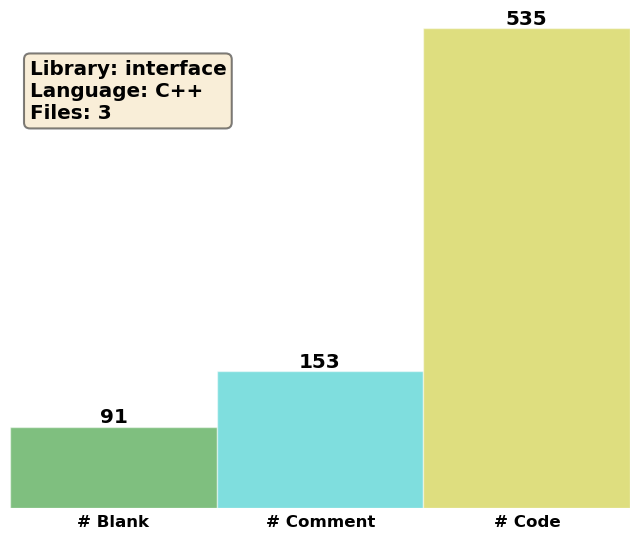
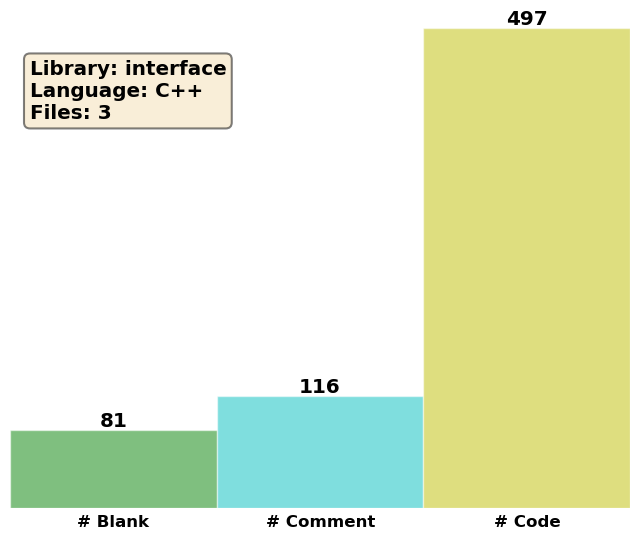
Accepting host_input when host is Fortran seems finally working

Changed region(s): [[0.3125, 0.6531, 0.6875, 0.7421], [0.0, 0.7421, 0.3438, 0.8015], [0.7812, 0.0, 0.875, 0.0594]]

diff --git a/src/interface/PCMInput.hpp b/src/interface/PCMInput.hpp
@@ -26,25 +26,13 @@
 #ifndef PCMINPUT_HPP
 #define PCMINPUT_HPP
 
-#include <algorithm>
 #include <iostream>
 #include <string>
 
 #include "Config.hpp"
 
-#include <boost/algorithm/string.hpp>
-
-inline bool invalidChar(char c);
-
 struct PCMInput;
 inline void print(const PCMInput &);
-inline void init(PCMInput &);
-inline void trim(PCMInput &);
-
-bool invalidChar(char c)
-{
-    return !std::isprint( static_cast<unsigned char>( c ) );
-}
 
 /*! @struct PCMInput
  *  @brief Data structure for host-API input communication.
@@ -59,28 +47,28 @@ struct PCMInput
 	double coarsity;
 	/// Average tesserae area.
 	double area;
+	/// The built-in radii set to be used.
+	char radii_set[8];
 	/// Minimal distance between sampling points.
 	double min_distance;
 	/// Derivative order for the switching function.
 	int der_order;
 	/// Whether to scale or not the atomic radii.
 	bool scaling;
-	/// The built-in radii set to be used.
-	char radii_set[8];
 	/// Name of the .npz file for GePol cavity restart.
 	char restart_name[20];
 	/// Minimal radius for the added spheres.
 	double min_radius;
 	/// Type of solver requested.
 	char solver_type[7];
-	/// Name of the solvent.
-	char solvent[16];
-	/// Type of the integral equation to be used.
-	char equation_type[11];
 	/// Correction in the CPCM apparent surface charge scaling factor.
 	double correction;
+	/// Name of the solvent.
+	char solvent[16];
 	/// Radius of the spherical probe mimicking the solvent.
 	double probe_radius;
+	/// Type of the integral equation to be used.
+	char equation_type[11];
 	/// Type of Green's function requested inside the cavity.
 	char inside_type[7];
 	/// Value of the static permittivity outside the cavity.
@@ -109,79 +97,6 @@ void print(const PCMInput & inp)
     std::cout << "inside type " << std::string(inp.inside_type) << std::endl;
     std::cout << "outside type " << std::string(inp.outside_type) << std::endl;
     std::cout << "epsilon outside " << inp.outside_epsilon << std::endl;
-}
-void init(PCMInput & inp)
-{
-    inp.patch_level = 0;
-    std::fill((inp.cavity_type), (inp.cavity_type) + 8, 0);
-    inp.coarsity = 0.0;
-    inp.area = 0.0;
-    inp.min_distance = 0.0;
-    inp.der_order = 0;
-    inp.scaling = false;
-    std::fill((inp.radii_set), (inp.radii_set) + 8, 0);
-    std::fill((inp.restart_name), (inp.restart_name) + 20, 0);
-    inp.min_radius = 0.0;
-    std::fill((inp.solver_type), (inp.solver_type) + 7, 0);
-    inp.correction = 0.0;
-    std::fill((inp.solvent), (inp.solvent) + 16, 0);
-    inp.probe_radius = 0.0;
-    std::fill((inp.equation_type), (inp.equation_type) + 11, 0);
-    std::fill((inp.inside_type), (inp.inside_type) + 7, 0);
-    inp.outside_epsilon = 0.0;
-    std::fill((inp.outside_type), (inp.outside_type) + 22, 0);
-}
-void trim(PCMInput & inp)
-{
-    std::string s1(inp.cavity_type);
-    s1.erase(std::remove_if(s1.begin(), s1.end(), invalidChar), s1.end());
-    boost::algorithm::trim(s1);
-    std::fill((inp.cavity_type), (inp.cavity_type) + 8, 0);
-    strncpy(inp.cavity_type, s1.c_str(), s1.length());
-
-    /*
-    std::string s2(inp.restart_name);
-    s2.erase(std::remove_if(s2.begin(), s2.end(), invalidChar), s2.end());
-    boost::algorithm::trim(s2);
-    std::fill((inp.restart_name), (inp.restart_name) + 20, 0);
-    strncpy(inp.cavity_type, s2.c_str(), s2.length());
-
-    std::string s3(inp.radii_set);
-    s3.erase(std::remove_if(s3.begin(), s3.end(), invalidChar), s3.end());
-    boost::algorithm::trim(s3);
-    std::fill((inp.radii_set), (inp.radii_set) + 8, 0);
-    strncpy(inp.cavity_type, s3.c_str(), s3.length());
-
-    std::string s4(inp.solver_type);
-    s4.erase(std::remove_if(s4.begin(), s4.end(), invalidChar), s4.end());
-    boost::algorithm::trim(s4);
-    std::fill((inp.solver_type), (inp.solver_type) + 7, 0);
-    strncpy(inp.solver_type, s4.c_str(), s4.length());
-
-    std::string s5(inp.solvent);
-    s5.erase(std::remove_if(s5.begin(), s5.end(), invalidChar), s5.end());
-    boost::algorithm::trim(s5);
-    std::fill((inp.solvent), (inp.solvent) + 16, 0);
-    strncpy(inp.solvent, s5.c_str(), s5.length());
-
-    std::string s6(inp.equation_type);
-    s6.erase(std::remove_if(s6.begin(), s6.end(), invalidChar), s6.end());
-    boost::algorithm::trim(s6);
-    std::fill((inp.equation_type), (inp.equation_type) + 11, 0);
-    strncpy(inp.equation_type, s6.c_str(), s6.length());
-
-    std::string s7(inp.inside_type);
-    s7.erase(std::remove_if(s7.begin(), s7.end(), invalidChar), s7.end());
-    boost::algorithm::trim(s7);
-    std::fill((inp.inside_type), (inp.inside_type) + 7, 0);
-    strncpy(inp.inside_type, s7.c_str(), s7.length());
-
-    std::string s8(inp.outside_type);
-    s8.erase(std::remove_if(s8.begin(), s8.end(), invalidChar), s8.end());
-    boost::algorithm::trim(s8);
-    std::fill((inp.outside_type), (inp.outside_type) + 22, 0);
-    strncpy(inp.outside_type, s8.c_str(), s8.length());
-    */
 }
 
 #endif // PCMINPUT_HPP

diff --git a/src/utils/Input.cpp b/src/utils/Input.cpp
@@ -46,6 +46,7 @@
 #include "Sphere.hpp"
 
 using boost::algorithm::to_upper_copy;
+using boost::algorithm::trim;
 
 Input::Input(const std::string & filename)
 {
@@ -172,38 +173,50 @@ void Input::reader(const std::string & filename)
     providedBy_ = std::string("API-side");
 }
 
+std::string trim(const char * src)
+{
+    std::string tmp(src);
+    trim(tmp);
+    return tmp;
+}
+
+std::string trim_and_upper(const char * src)
+{
+    return to_upper_copy(trim(src));
+}
+
 void Input::reader(const PCMInput & host_input)
 {
     CODATAyear_ = 2010;
 
-    type_ = to_upper_copy(std::string(host_input.cavity_type));
+    type_ = trim_and_upper(host_input.cavity_type);
     area_ = host_input.area * angstrom2ToBohr2(CODATAyear_);
     patchLevel_ = host_input.patch_level;
     coarsity_ = host_input.coarsity * angstromToBohr(CODATAyear_);
     minDistance_ = host_input.min_distance * angstromToBohr(CODATAyear_);
     derOrder_ = host_input.der_order;
     if (type_ == "RESTART") {
-        cavFilename_ = std::string(host_input.restart_name); // No case conversion here!
+        cavFilename_ = trim(host_input.restart_name); // No case conversion here!
     }
 
     scaling_ = host_input.scaling;
-    radiiSet_ = host_input.radii_set;
+    radiiSet_ = trim_and_upper(host_input.radii_set);
     minimalRadius_ = host_input.min_radius * angstromToBohr(CODATAyear_);
     mode_ = std::string("IMPLICIT");
 
-    std::string name = to_upper_copy(std::string(host_input.solvent));
+    std::string name = trim_and_upper(host_input.solvent);
     if (name.empty()) {
         hasSolvent_ = false;
         // Get the probe radius
         probeRadius_ = host_input.probe_radius * angstromToBohr(CODATAyear_);
         // Get the contents of the Green<inside> section...
         // ...and initialize the data members
-        greenInsideType_ = to_upper_copy(std::string(host_input.inside_type));
+        greenInsideType_ = trim_and_upper(host_input.inside_type);
         derivativeInsideType_ = derivativeTraits("DERIVATIVE");
         epsilonInside_ = 1.0;
         // Get the contents of the Green<outside> section...
         // ...and initialize the data members
-        greenOutsideType_ = to_upper_copy(std::string(host_input.outside_type));
+        greenOutsideType_ = trim_and_upper(host_input.outside_type);
         derivativeOutsideType_ = derivativeTraits("DERIVATIVE");
         epsilonStaticOutside_ = host_input.outside_epsilon;
         epsilonDynamicOutside_ = host_input.outside_epsilon;
@@ -226,8 +239,8 @@ void Input::reader(const PCMInput & host_input)
     }
     integratorType_ = integratorPolicy("COLLOCATION"); // Currently hardcoded!!!
 
-    solverType_ = to_upper_copy(std::string(host_input.solver_type));
-    std::string inteq = to_upper_copy(std::string(host_input.equation_type));
+    solverType_ = trim_and_upper(host_input.solver_type);
+    std::string inteq = trim_and_upper(host_input.equation_type);
     equationType_ = integralEquation(inteq);
     correction_ = host_input.correction;
     hermitivitize_ = true;

diff --git a/src/utils/FortranCUtils.hpp b/src/utils/FortranCUtils.hpp
@@ -32,9 +32,9 @@
 extern "C" {
 #endif
 
-/*! \brief Convert C string to Fortran string
+/*! \brief Convert a C string to a Fortran string
  *  \param[in] src the string to convert
- *  \param[out] src the string to convert
+ *  \param[out] dest the converted string
  *  \param[in]      len length of Fortran string
  *  Change a C string (NULL terminated) into a Fortran string.
  *  Basically, all that is done is that the NULL is ripped out
@@ -42,7 +42,18 @@ extern "C" {
  */
 #define pcmsolver_c2f_string \
     FortranCInterface_GLOBAL_(pcmsolver_c2f_string, PCMSOLVER_C2F_STRING)
-    void pcmsolver_c2f_string(char * src, char * dest, int * len);
+void pcmsolver_c2f_string(char * src, char * dest, int * len);
+
+/*! \brief Convert a Fortran string to a C string
+ *  \param[in] src Fortran string
+ *  \param[out] dest C string
+ *  \param[in] len length of Fortran string
+ *  Chop off trailing blanks off of a Fortran string and
+ *  move it into C string.
+ */
+#define pcmsolver_f2c_string \
+    FortranCInterface_GLOBAL_(pcmsolver_f2c_string, PCMSOLVER_F2C_STRING)
+void pcmsolver_f2c_string(char * src, char * dest, int * len);
 
 #ifdef __cplusplus
 }

diff --git a/src/utils/FortranCUtils.cpp b/src/utils/FortranCUtils.cpp
@@ -25,6 +25,15 @@
 
 #include "FortranCUtils.hpp"
 
+#include "Config.hpp"
+
+#include <cctype>
+#include <cstring>
+
+#ifndef _fcdtocp
+#define _fcdtocp(desc) (desc)
+#endif
+
 void pcmsolver_c2f_string(char * src, char * dest, int * len)
 {
     int sofar;
@@ -32,4 +41,21 @@ void pcmsolver_c2f_string(char * src, char * dest, int * len)
         *dest++ = *src++;
     while (sofar++ < *len)
         *dest++ = ' ';
+}
+
+void pcmsolver_f2c_string(char * src, char * dest, int * len)
+{
+    char * str; /* Pointer to FORTRAN string */
+    int i;      /* Local index variable */
+
+    /* Search for the end of the string */
+    str = _fcdtocp(src);
+    for(i = (int)*len - 1; i >= 0 && !std::isgraph((int)str[i]); i--)
+        /*EMPTY*/;
+
+    /* Copy text from FORTRAN to C string */
+    std::memcpy(dest, str, (size_t)(i + 1));
+
+    /* Terminate C string */
+    dest[i + 1] = '\0';
 }

diff --git a/src/utils/Input.hpp b/src/utils/Input.hpp
@@ -136,7 +136,7 @@ private:
      *  The "Atoms" and "Explicit" methods are only available using the explicit parsing
      *  by our Python script of a separate input file.
      */
-    void reader(const PCMInput & host_input); 
+    void reader(const PCMInput & host_input);
     /*! Perform semantic input parsing aka sanity check */
     void semanticCheck();
 
@@ -263,5 +263,9 @@ int profilePolicy(const std::string & name);
 
 /*! A useful map to convert the EquationType string to an integer which will be passed to the Solver CTOR. */
 int integralEquation(const std::string & name);
+
+std::string trim(const char * src);
+
+std::string trim_and_upper(const char * src);
 
 #endif // INPUT_HPP
